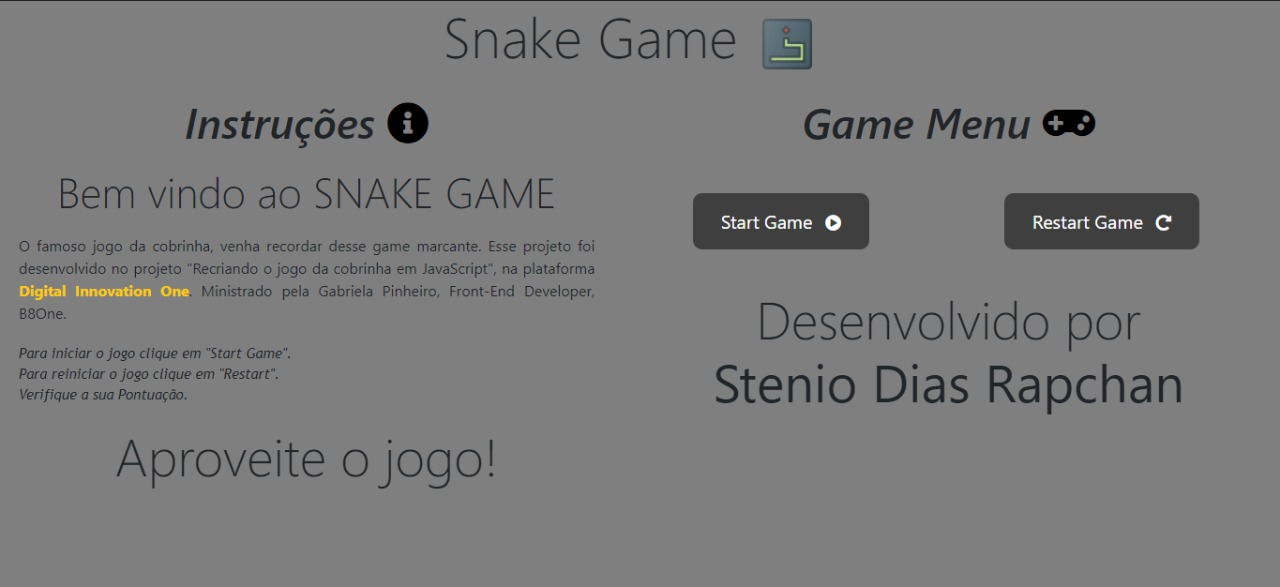
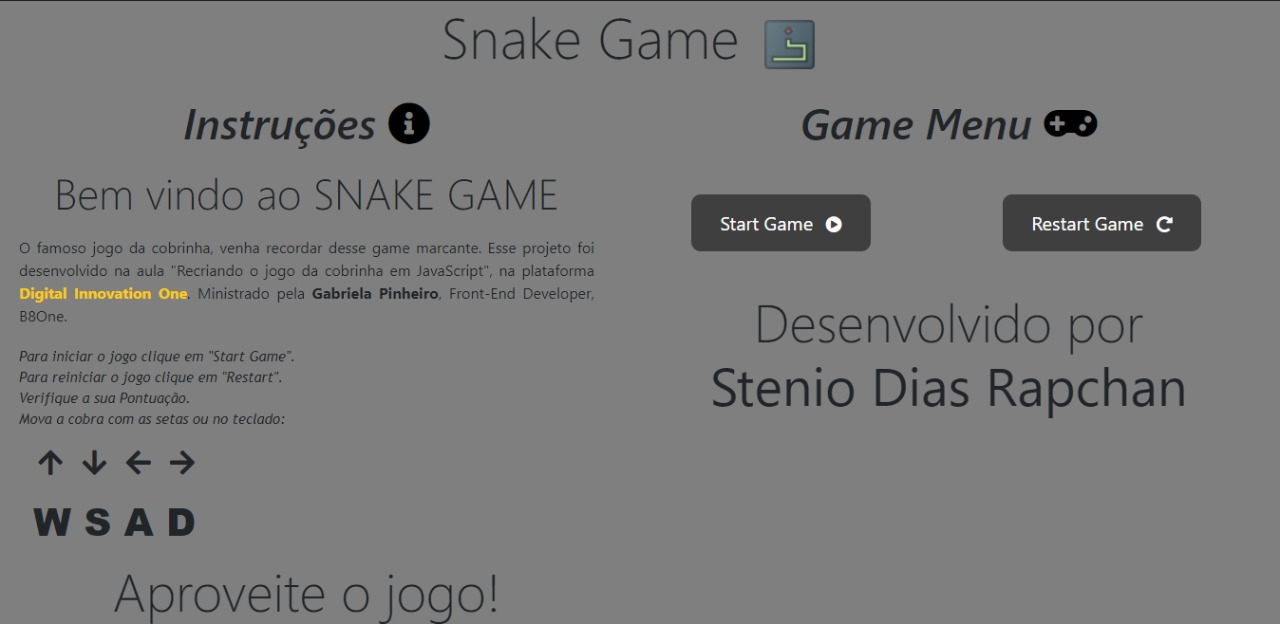
Add keywords WSAD in game and Update intro

diff --git a/Snake-Game/js/script.js b/Snake-Game/js/script.js
@@ -33,10 +33,10 @@ function drawFood(color) {
 document.addEventListener('keydown', update);
 
 function update (event) {
-    if (event.keyCode == 37 && direction != 'right')    direction = 'left'; 
-    if (event.keyCode == 38 && direction != 'down')     direction = 'up'; 
-    if (event.keyCode == 39 && direction != 'left')     direction = 'right'; 
-    if (event.keyCode == 40 && direction != 'up')       direction = 'down'; 
+    if ((event.keyCode == 37 || event.keyCode == 65) && direction != 'right')    direction = 'left'; 
+    if ((event.keyCode == 38 || event.keyCode == 87) && direction != 'down')     direction = 'up'; 
+    if ((event.keyCode == 39 || event.keyCode == 68) && direction != 'left')     direction = 'right'; 
+    if ((event.keyCode == 40 || event.keyCode == 83) && direction != 'up')       direction = 'down'; 
 }
 
 function startGame() {
@@ -58,7 +58,7 @@ function startGame() {
         createBG('lightgreen');
         createSnake('green');
         drawFood('red');
-    } else if (points >= 10 && points < 15){
+    } else if (points >= 10 && points < 20){
         let mode = document.getElementById('game-mode')
         mode.innerHTML = "Deserto";
         mode.style.color = "#DE681F";
@@ -67,7 +67,7 @@ function startGame() {
         createBG('#DE681F');
         createSnake('#EB9F15');
         drawFood('#EB2915');
-    } else if (points >= 15 && points < 20){
+    } else if (points >= 20 && points < 30){
         let mode = document.getElementById('game-mode')
         mode.innerHTML = "Por do Sol";
         mode.style.color = "#FF761A";
@@ -76,7 +76,7 @@ function startGame() {
         createBG('#FF761A');
         createSnake('#D1201C');
         drawFood('#FFFFFF');
-    } else if (points >= 20){
+    } else if (points >= 30){
         let mode = document.getElementById('game-mode')
         mode.innerHTML = "Espaço";
         mode.style.color = "#575757";

diff --git a/Snake-Game/index.html b/Snake-Game/index.html
@@ -31,6 +31,12 @@
                 Para reiniciar o jogo clique em "Restart".
                 </br>
                 Verifique a sua Pontuação.
+                </br>
+                Mova a cobra com as setas ou no teclado:
+                </br>
+                <i class="fas fa-arrow-up"></i><i class="fas fa-arrow-down"></i><i class="fas fa-arrow-left"></i><i class="fas fa-arrow-right"></i>
+                </br>
+                <h2 class="display-3 setas">W                S               A               D</h2>
                 </p>
                 <p class="display-4 text-center">Aproveite o jogo!</p>
             </div>

diff --git a/Snake-Game/css/style.css b/Snake-Game/css/style.css
@@ -86,6 +86,19 @@ body {
     border: 5px solid #000000;
 }
 
+.setas{
+    font-size: 40px;
+    font-family: "Arial Black";
+    margin-left: 35px;
+}
+
+.instructionsMenu i {
+    margin-top: 20px;
+    margin-left: 20px;
+    font-size: 30px;
+    align-items: center;
+}
+
 .game {
     display: none;
     flex-direction: column;
